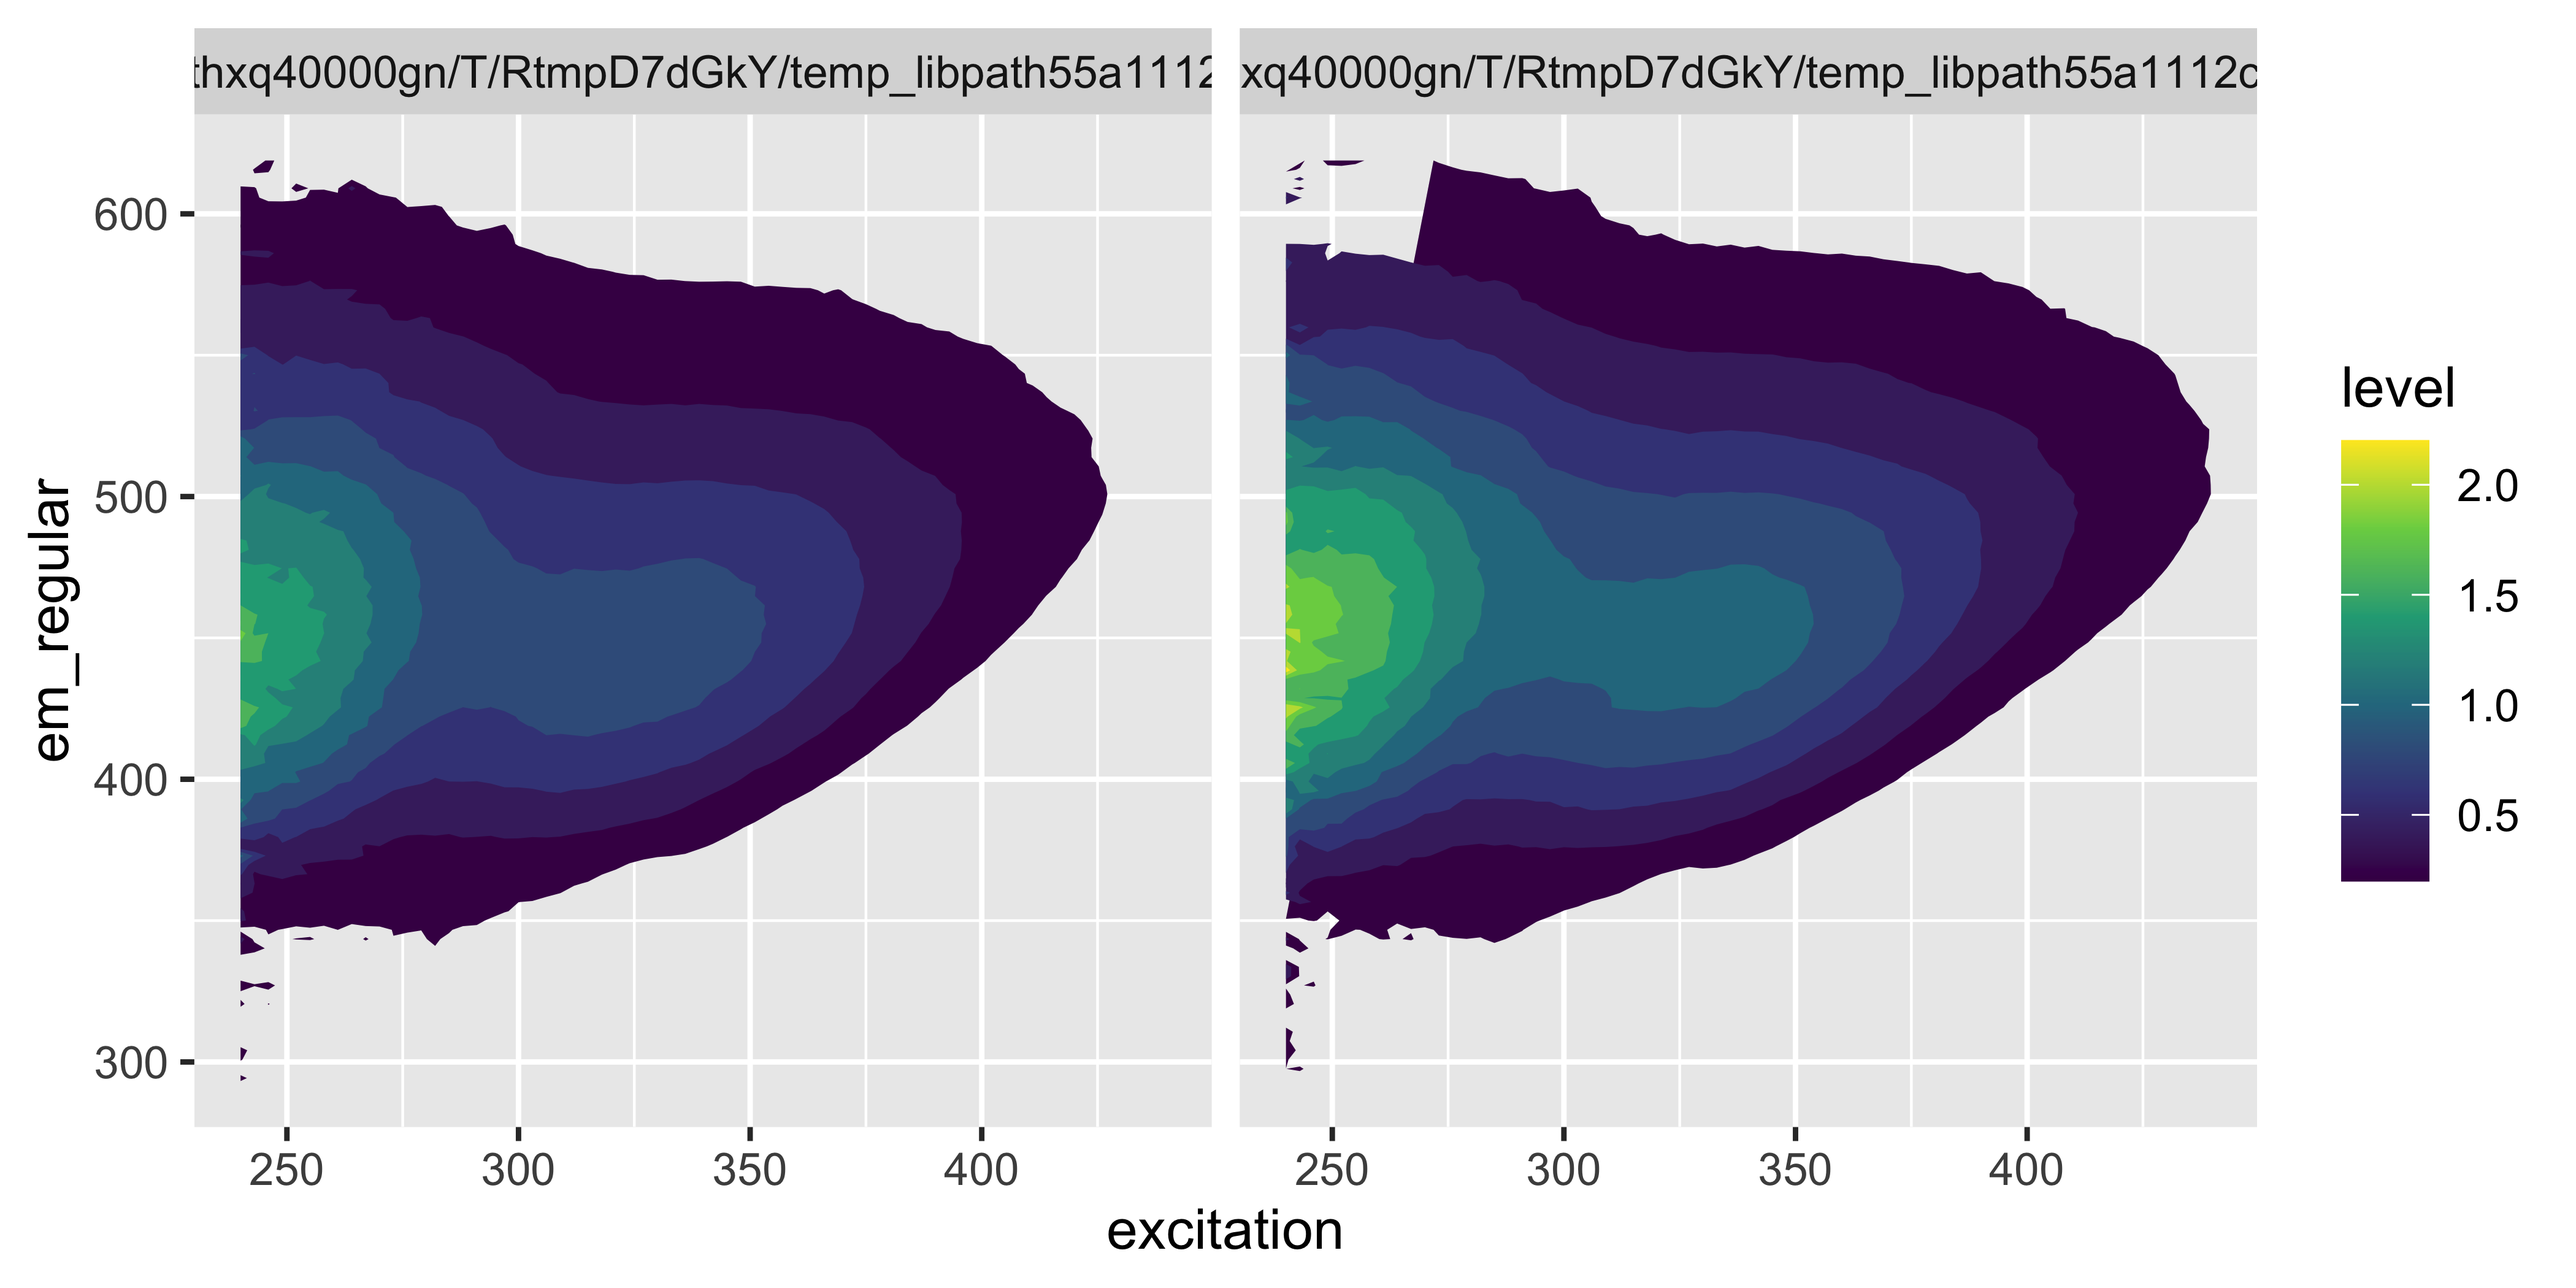
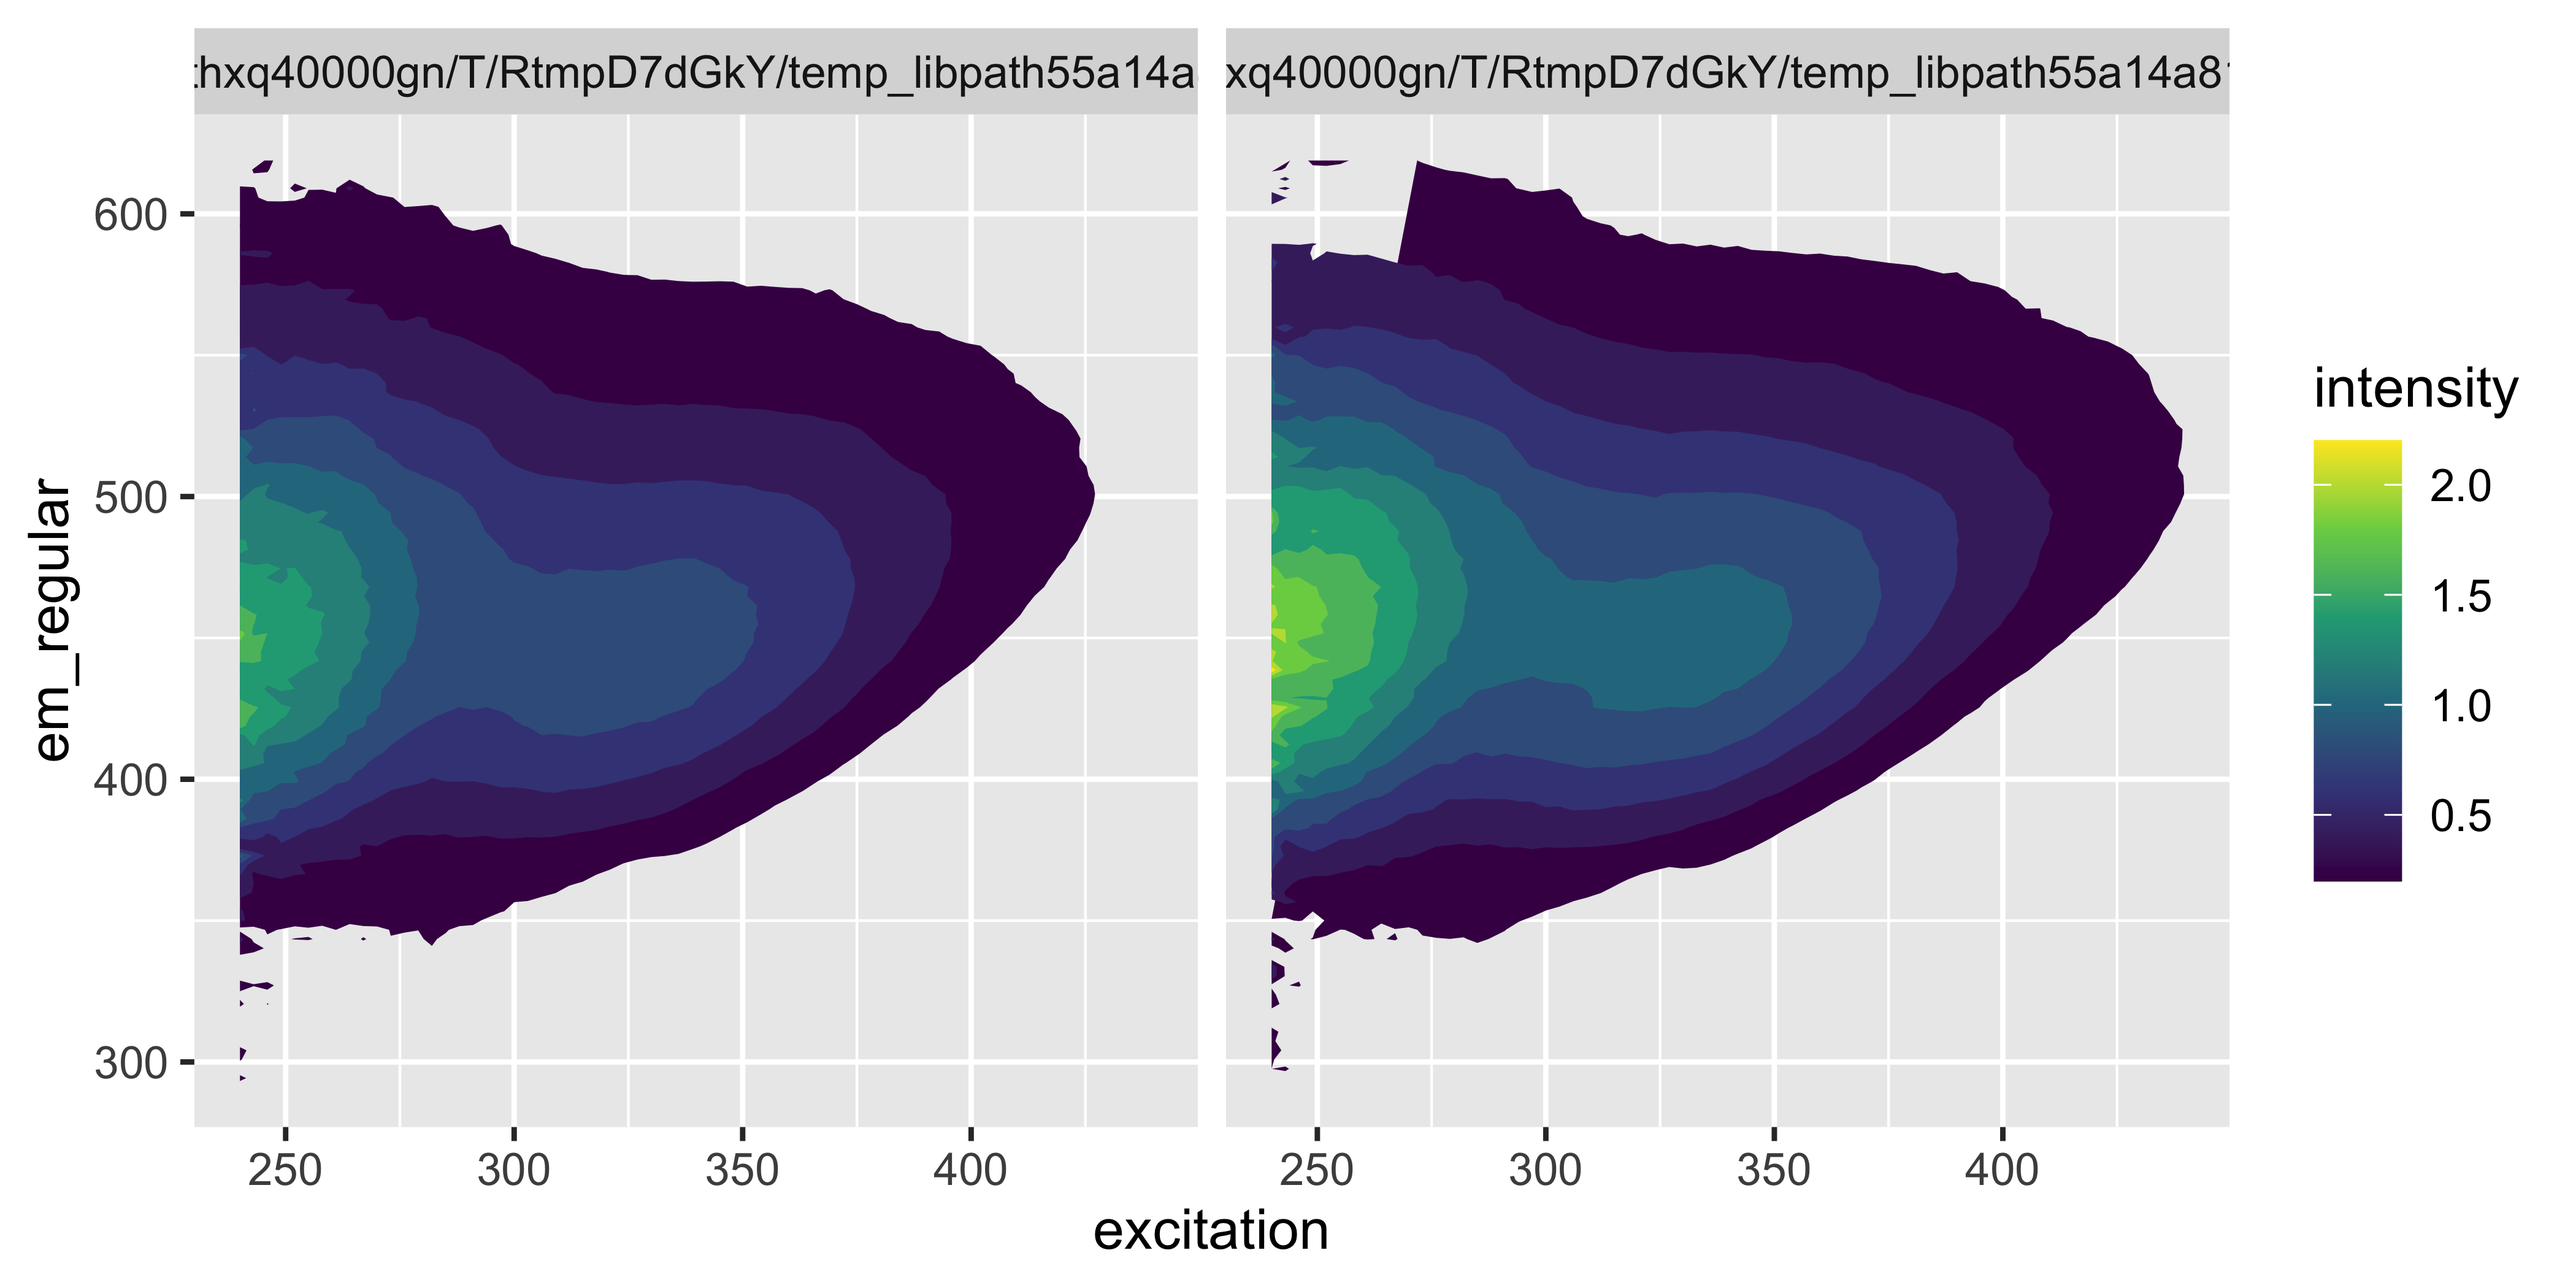
update readme

diff --git a/README.md b/README.md
@@ -122,7 +122,7 @@ feem_dat %>%
   ggplot(aes(excitation, em_regular, z = intensity, fill = stat(level))) +
   facet_wrap(vars(file)) + 
   stat_contour(geom = "polygon") +
-  scale_fill_viridis_c()
+  scale_fill_viridis_c("intensity")
 ```
 
 <img src="man/figures/README-feem-plot-2-1.png" width="100%" />
